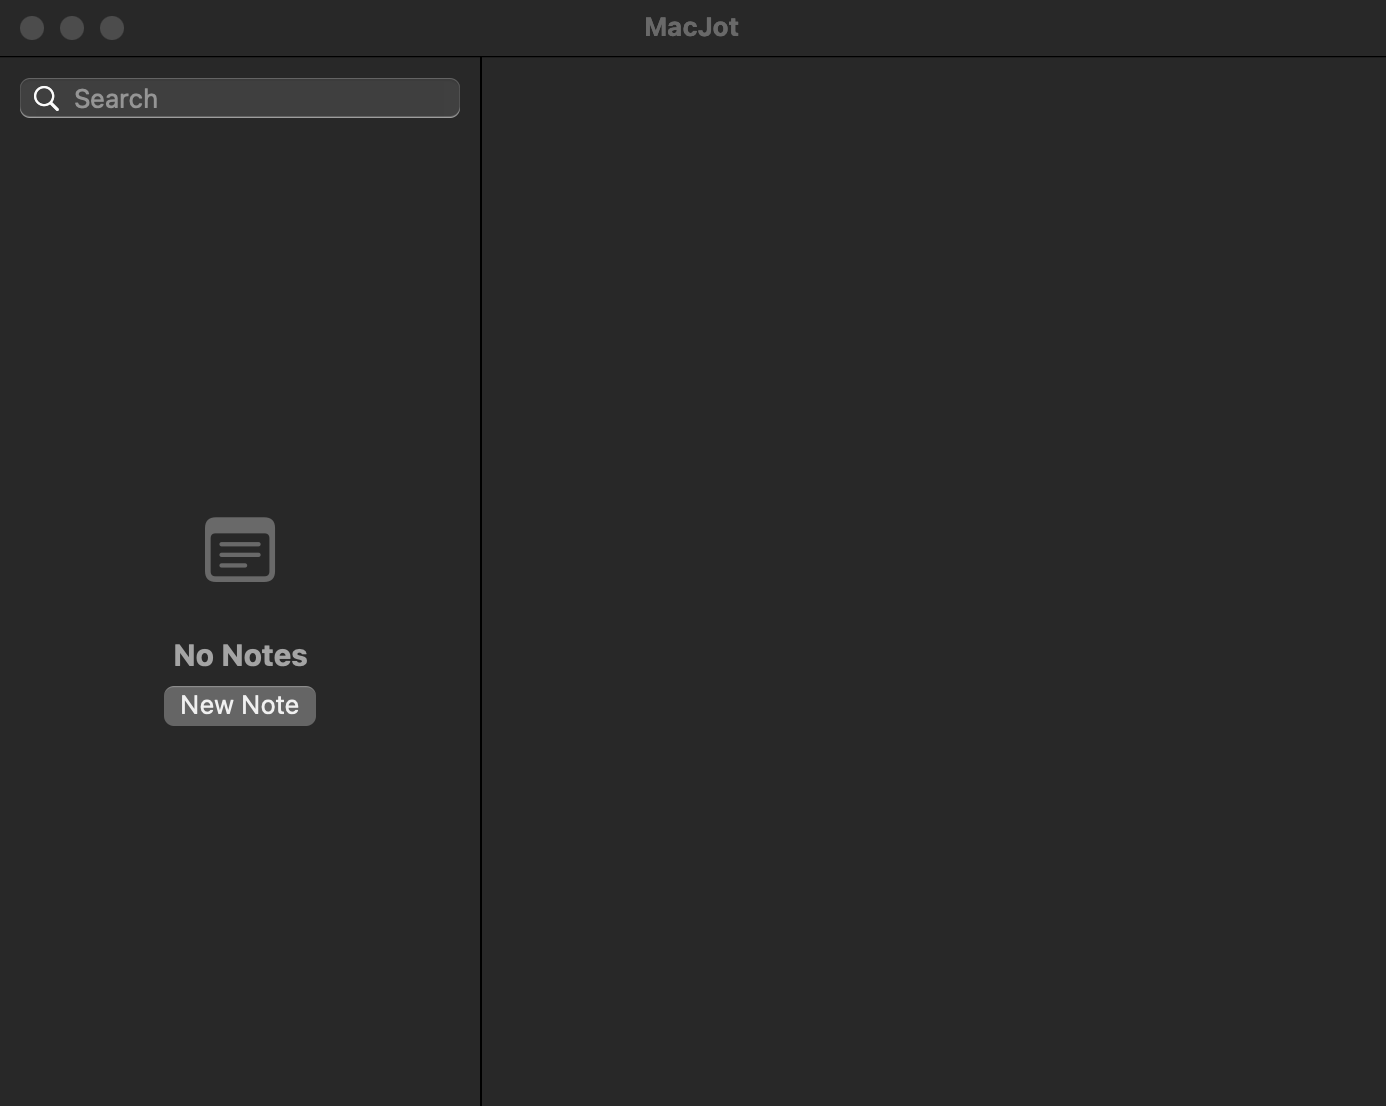
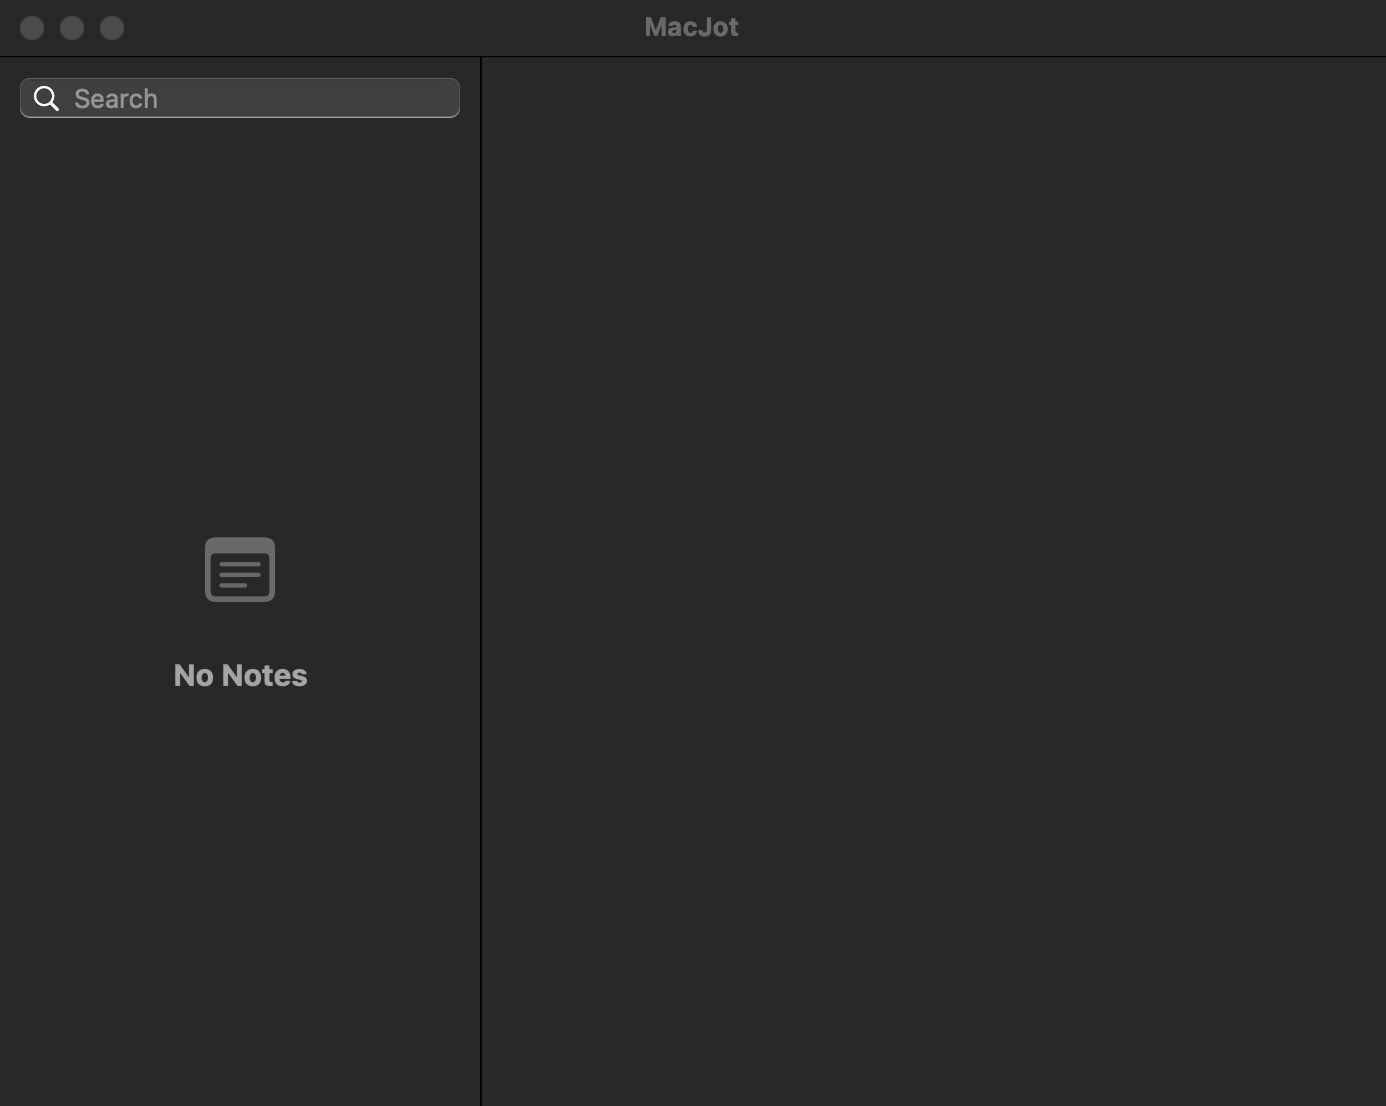
Note List: no New Note button under "No Notes"
A blank Draft is always open in the editor already, and Return in the
search field goes there.

Changed region(s): [[0.0931, 0.5841, 0.2482, 0.6763], [0.1241, 0.4611, 0.2172, 0.5533]]

diff --git a/Sources/Jot/NoteListViewController.swift b/Sources/Jot/NoteListViewController.swift
@@ -9,8 +9,6 @@ final class NoteListViewController: NSViewController, NSTableViewDataSource, NST
     NSSearchFieldDelegate {
     /// The user picked a Note (click or arrow keys).
     var onOpen: (URL) -> Void = { _ in }
-    /// New Note under "No Notes": start writing (as ⌘N).
-    var onNewNote: () -> Void = {}
     /// Return in the search field or the list: go on writing in the selected Note.
     var onReturn: () -> Void = {}
     /// `Esc` in the search field with nothing left to clear.
@@ -23,7 +21,7 @@ final class NoteListViewController: NSViewController, NSTableViewDataSource, NST
     let tableView = NoteTableView()
     let searchField = NSSearchField()
     /// Says why the list is empty (Apple's `ContentUnavailableView`), over it.
-    private let placeholder = NSHostingView(rootView: PlaceholderView(kind: nil, onNewNote: {}))
+    private let placeholder = NSHostingView(rootView: PlaceholderView(kind: nil))
     /// The open Draft, once it has text, is a row of its own on top, so a new Note shows up
     /// in the list straight away rather than once it gets its file.
     private enum Row {
@@ -96,7 +94,7 @@ final class NoteListViewController: NSViewController, NSTableViewDataSource, NST
     private func showPlaceholder(_ kind: NoteListPlaceholder?) {
         placeholder.isHidden = kind == nil
         guard placeholder.rootView.kind != kind else { return }
-        placeholder.rootView = PlaceholderView(kind: kind) { [weak self] in self?.onNewNote() }
+        placeholder.rootView = PlaceholderView(kind: kind)
     }
 
     /// The search field or the list has keyboard focus.
@@ -339,25 +337,16 @@ private final class NoteRowView: NSTableCellView {
     }
 }
 
-/// Why the Note List is empty, in Apple's standard look. With no Notes at all,
-/// a button starts one: the search field has the focus there, not the editor.
+/// Why the Note List is empty, in Apple's standard look. No New Note button:
+/// a blank Draft is always open in the editor already (Return gets there).
 private struct PlaceholderView: View {
     let kind: NoteListPlaceholder?
-    let onNewNote: () -> Void
 
     var body: some View {
         switch kind {
-        case .noResults(let query):
-            ContentUnavailableView.search(text: query)
-        case .noNotes:
-            ContentUnavailableView {
-                Label("No Notes", systemImage: "note.text")
-            } actions: {
-                Button("New Note", action: onNewNote)
-                    .help("Start writing a new note (⌘N)")
-            }
-        case nil:
-            EmptyView()
+        case .noResults(let query): ContentUnavailableView.search(text: query)
+        case .noNotes: ContentUnavailableView("No Notes", systemImage: "note.text")
+        case nil: EmptyView()
         }
     }
 }

diff --git a/Sources/Jot/CapturePanelController.swift b/Sources/Jot/CapturePanelController.swift
@@ -68,7 +68,6 @@ final class CapturePanelController: NSObject, NSWindowDelegate, NSTextViewDelega
         noteList.onDelete = { [weak self] note in self?.confirmTrash(note) { self?.trash(note) } }
         noteList.menuItems = { [weak self] in self?.actions(for: $0) ?? [] }
         noteList.onReturn = { [weak self] in self?.focusEditor() }
-        noteList.onNewNote = { [weak self] in self?.showNewDraft() }
         noteList.onCancel = { [weak self] in self?.hide() }
         noteListItem.minimumThickness = 180
         noteListItem.maximumThickness = 320

diff --git a/.scratch/jot-mvp/issues/22-note-list-empty-states.md b/.scratch/jot-mvp/issues/22-note-list-empty-states.md
@@ -1,6 +1,6 @@
 # 22: Note List empty states
 
-**What to build:** The Note List says why it's empty, from the HIG audit (`.scratch/hig-audit/`, finding 10): a search with no matches shows a centred grey "No Results" in the list, an empty Notes Folder shows "No Notes". Apple's standard look for this is SwiftUI's `ContentUnavailableView` (the `.search` variant for searches); in the AppKit list, either host one or match its look (secondary label colour, centred in the list's visible area). **Changed after the user tried it (2026-10-09):** "No Notes" never showed, because opening the Note List in an empty folder opens a Draft, and the Draft had a row of its own ("New Note") even while blank. Decided: a blank Draft gets no row (`NoteSummary.listsDraft`); its row appears with the first text, so an empty folder says "No Notes" until the user types. This also applies with Notes in the folder: no "New Note" row at the top until the Draft has text. Then, as the Search Hotkey leaves the cursor in the search field, "No Notes" got a **New Note** button (Apple's text-button style for empty states rather than a bare "+"; same as ⌘N: starts a Draft and puts the cursor in the editor).
+**What to build:** The Note List says why it's empty, from the HIG audit (`.scratch/hig-audit/`, finding 10): a search with no matches shows a centred grey "No Results" in the list, an empty Notes Folder shows "No Notes". Apple's standard look for this is SwiftUI's `ContentUnavailableView` (the `.search` variant for searches); in the AppKit list, either host one or match its look (secondary label colour, centred in the list's visible area). **Changed after the user tried it (2026-10-09):** "No Notes" never showed, because opening the Note List in an empty folder opens a Draft, and the Draft had a row of its own ("New Note") even while blank. Decided: a blank Draft gets no row (`NoteSummary.listsDraft`); its row appears with the first text, so an empty folder says "No Notes" until the user types. This also applies with Notes in the folder: no "New Note" row at the top until the Draft has text. A **New Note** button under "No Notes" was tried and removed again: a blank Draft is always open in the editor already, and Return in the search field goes there.
 
 **Blocked by:** 19
 
@@ -8,5 +8,4 @@
 
 - [x] A search without matches shows "No Results"; clearing the search brings the Notes back
 - [x] An empty Notes Folder shows "No Notes"; the first saved Note replaces it
-- [x] "No Notes" has a New Note button that puts the cursor in a new Draft
 - [x] A blank Draft has no row: an empty folder shows "No Notes" until the user types; the Draft's row then replaces it
